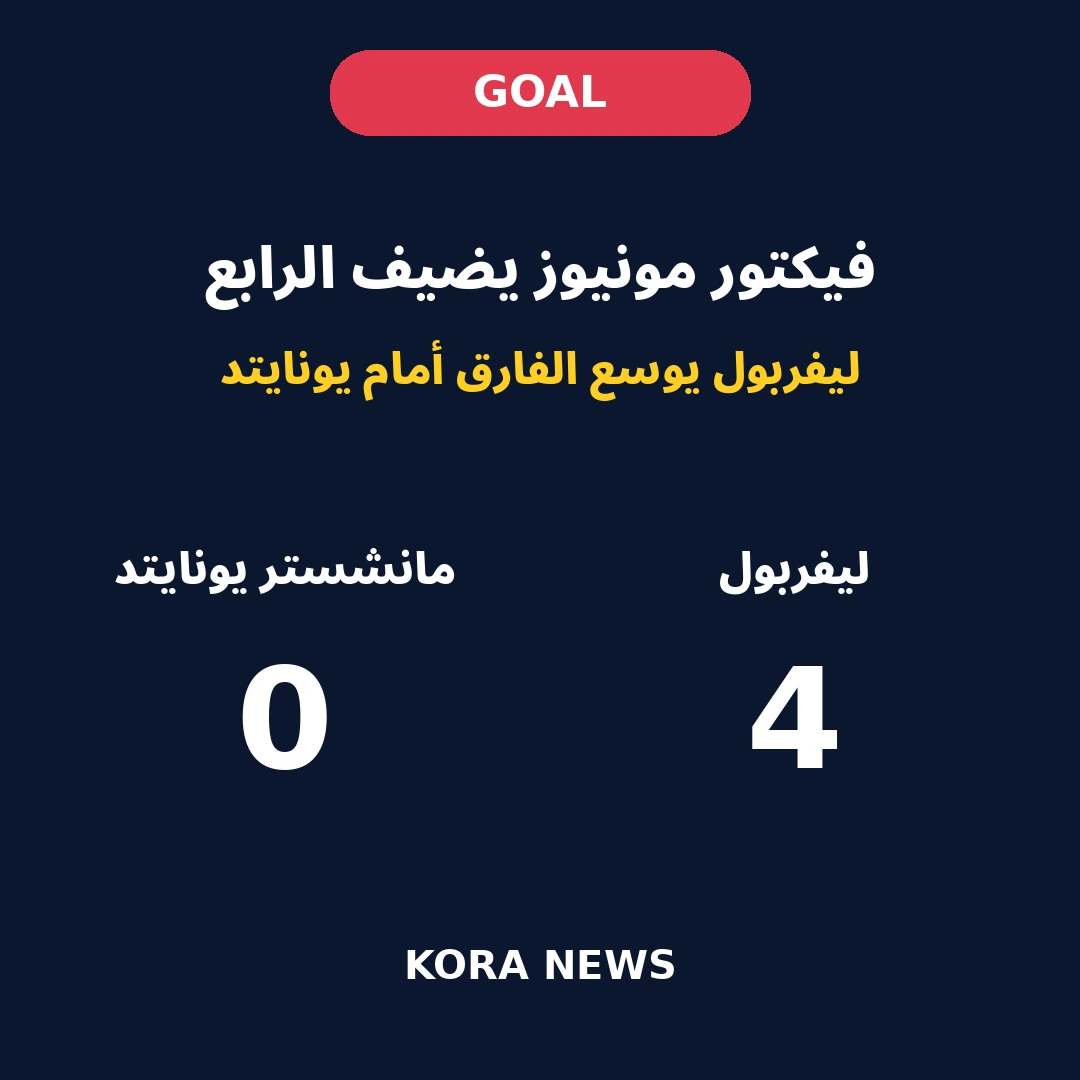
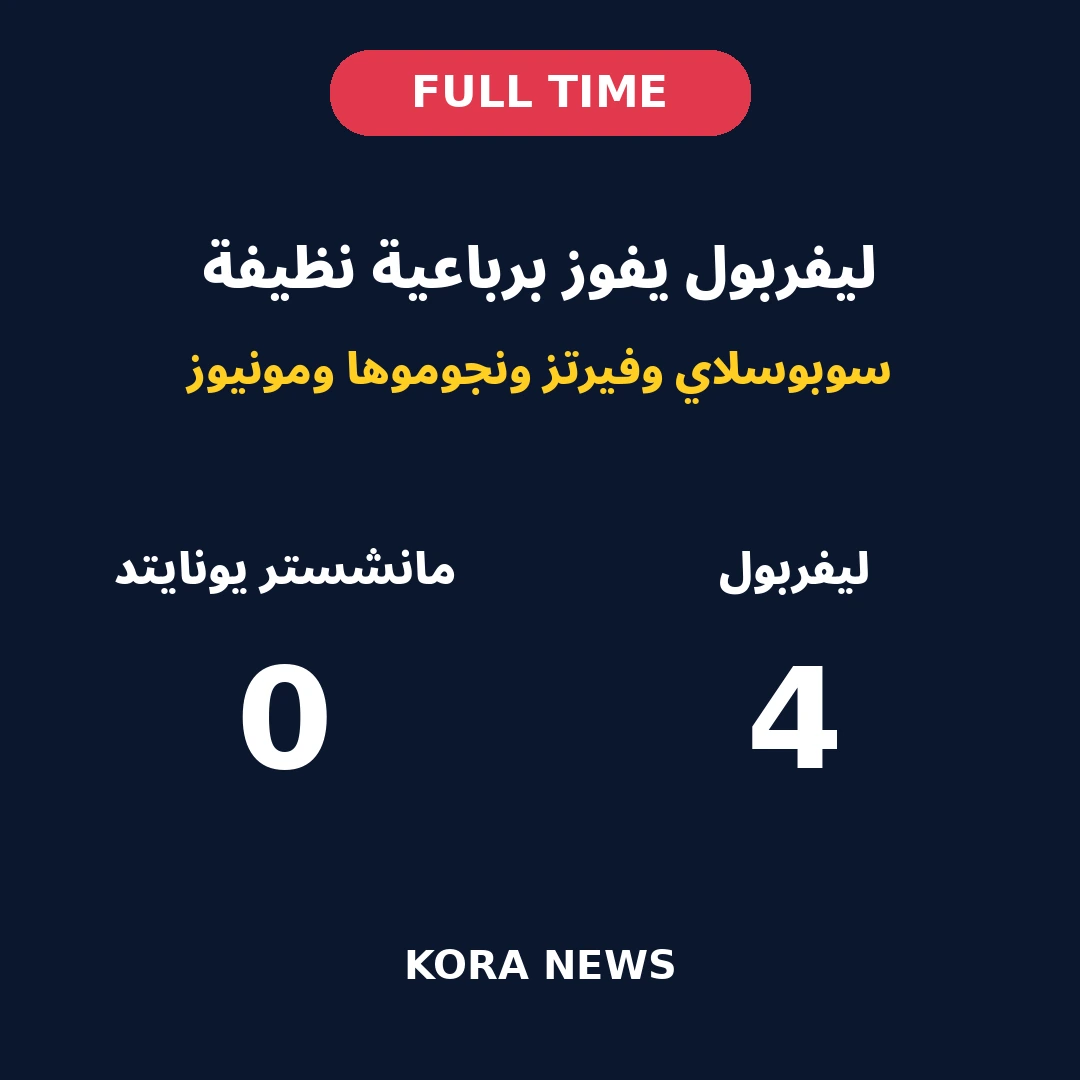
Finalize Liverpool United coverage and update both club completed results

Changed region(s): [[0.1528, 0.2139, 0.825, 0.3972], [0.3667, 0.0611, 0.6111, 0.1222]]

diff --git a/posts/2026-11-22-liverpool-manchester-united-coverage.md b/posts/2026-11-22-liverpool-manchester-united-coverage.md
@@ -1,13 +1,23 @@
 ---
-title: فيكتور مونيوز يضيف الرابع وليفربول يتقدم على مانشستر يونايتد برباعية
-date: 2026-11-22T20:13:00+02:00
+title: ليفربول يهزم مانشستر يونايتد برباعية نظيفة في أنفيلد
+date: 2026-11-22T20:24:00+02:00
 slug: liverpool-manchester-united-coverage
 category: متابعة المباريات
-excerpt: فيكتور مونيوز يسجل الرابع في الدقيقة 82، وليفربول يتقدم بأربعة أهداف دون رد أمام مانشستر يونايتد. لقطة موثقة عند 20:13 بتوقيت القاهرة أثناء استمرار اللعب، وليست نتيجة نهائية.
+excerpt: فوز ليفربول على مانشستر يونايتد بأربعة أهداف دون رد، سجلها سوبوسلاي وفيرتز ونجوموها ومونيوز، بعد طرد يورو. النتيجة النهائية مؤكدة من BBC وESPN عند 20:24 بتوقيت القاهرة.
 image: liverpool-manchester-united-coverage.webp
 ---
 
-## مونيوز يضيف الرابع، تحديث 20:13 بتوقيت القاهرة
+## نهاية المباراة: ليفربول 4، مانشستر يونايتد 0
+
+فاز ليفربول على مانشستر يونايتد **بأربعة أهداف دون رد** في أنفيلد، ضمن الدوري الإنجليزي الممتاز، يوم الأحد 22 نوفمبر 2026.
+
+سجل دومينيك سوبوسلاي الهدف الأول في الدقيقة **10**، وأضاف فلوريان فيرتز الثاني في الدقيقة **13**. وفي الشوط الثاني، أحرز ريو نجوموها الثالث في الدقيقة **66**، ثم سجل فيكتور مونيوز الرابع في الدقيقة **82**. ولعب يونايتد بعشرة لاعبين بعد طرد ليني يورو في الدقيقة **8**.
+
+أكدت [متابعة BBC Sport](https://www.bbc.com/sport/football/live/cm62pqqw6d29t) و[صفحة المباراة في ESPN](https://www.espn.com/soccer/match/_/gameId/401878755) نهاية المباراة والنتيجة **4–0** في مراجعة عند **20:24 بتوقيت القاهرة**. وانتهى الشوط الأول بتقدم ليفربول بهدفين دون رد.
+
+**هذه النتيجة النهائية المؤكدة.** وتبقى التحديثات المؤرخة أدناه سجلًا لمراحل سابقة أثناء المباراة، وليست بديلًا عن النتيجة النهائية أعلاه.
+
+## مونيوز يضيف الرابع، تحديث سابق عند 20:13 بتوقيت القاهرة
 
 أضاف فيكتور مونيوز الهدف الرابع لليفربول في الدقيقة **82** أمام مانشستر يونايتد في أنفيلد، لتصبح النتيجة **أربعة أهداف دون رد**.
 
